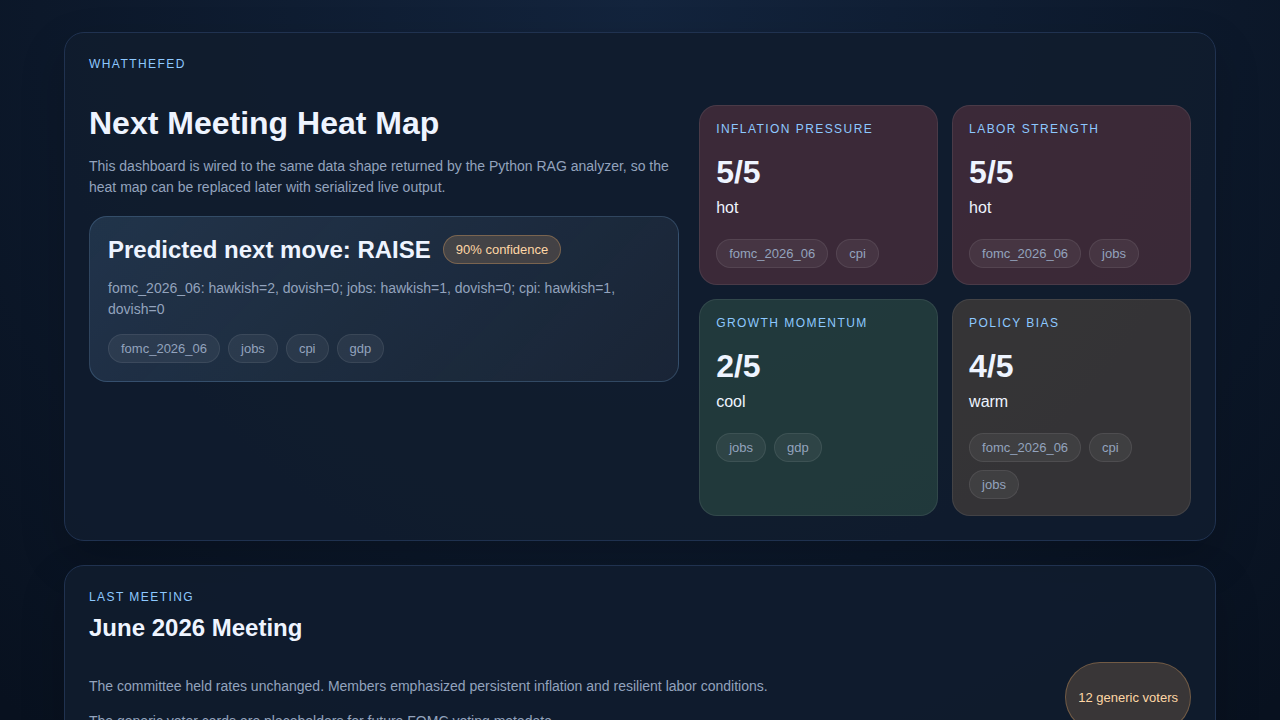
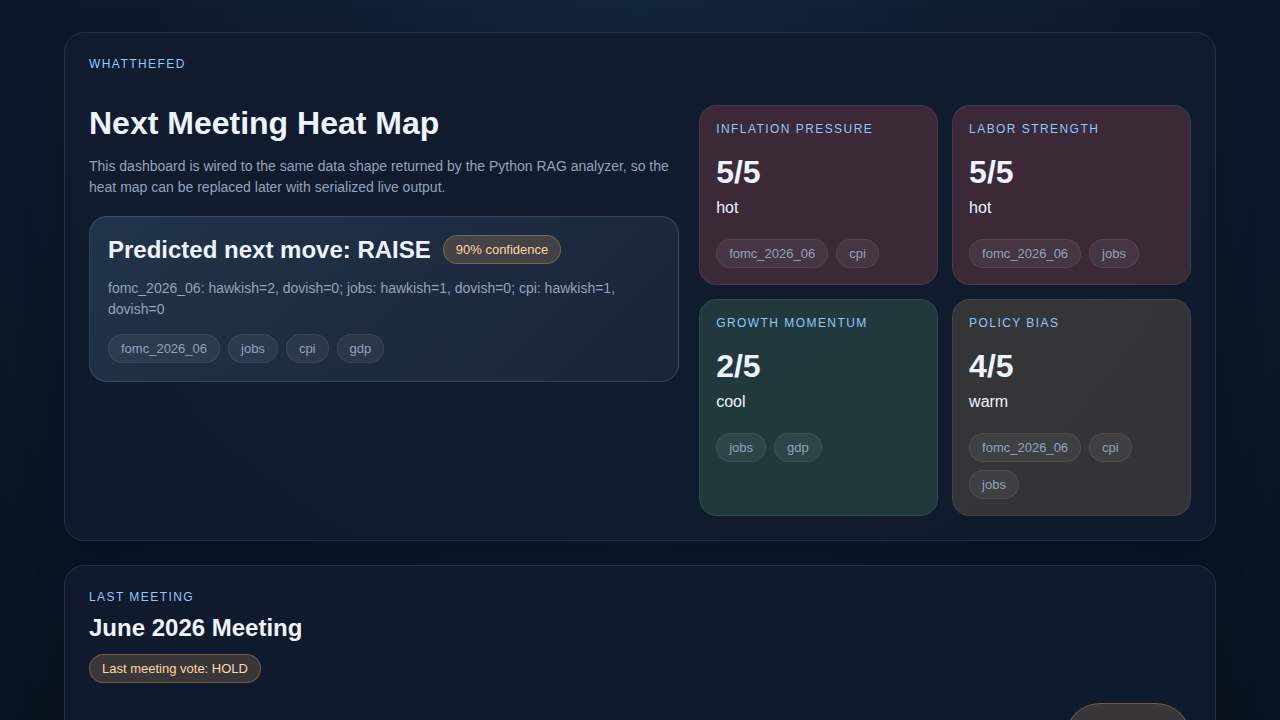
Clarify dashboard meeting data

Changed region(s): [[0.0625, 0.8861, 0.5938, 1.0], [0.8125, 0.9167, 0.9375, 1.0]]

diff --git a/index.html b/index.html
@@ -148,6 +148,14 @@
       margin-top: 20px;
     }
 
+    .meeting-meta {
+      display: flex;
+      flex-wrap: wrap;
+      gap: 10px;
+      align-items: center;
+      margin-top: 12px;
+    }
+
     .votes-grid {
       display: grid;
       grid-template-columns: repeat(4, minmax(120px, 1fr));
@@ -249,10 +257,13 @@
     <section class="section">
       <div class="eyebrow">Last Meeting</div>
       <h2 id="meeting-label"></h2>
+      <div class="meeting-meta">
+        <div id="meeting-decision" class="pill"></div>
+      </div>
       <div class="meeting-grid">
         <div>
           <p id="meeting-summary" class="note"></p>
-          <p class="note">The generic voter cards are placeholders for future FOMC voting metadata.</p>
+          <p class="note">The generic voter cards reflect the last meeting vote pattern, so they may differ from the next meeting prediction above.</p>
         </div>
         <div class="pill">12 generic voters</div>
       </div>
@@ -263,6 +274,7 @@
   <script>
     const dashboardData = {
       last_meeting_label: "June 2026 Meeting",
+      last_meeting_decision: "hold",
       last_meeting_summary:
         "The committee held rates unchanged. Members emphasized persistent inflation and resilient labor conditions.",
       next_meeting_prediction: {
@@ -296,6 +308,8 @@
     };
 
     document.getElementById("meeting-label").textContent = dashboardData.last_meeting_label;
+    document.getElementById("meeting-decision").textContent =
+      `Last meeting vote: ${dashboardData.last_meeting_decision.toUpperCase()}`;
     document.getElementById("meeting-summary").textContent = dashboardData.last_meeting_summary;
     document.getElementById("summary").textContent =
       "This dashboard is wired to the same data shape returned by the Python RAG analyzer, so the heat map can be replaced later with serialized live output.";

diff --git a/whatthefed/rag.py b/whatthefed/rag.py
@@ -54,6 +54,11 @@ class FedRAGAnalyzer:
     SCORE_MULTIPLIER = 0.1
     MAX_CONFIDENCE = 0.9
     GENERIC_VOTER_COUNT = 12
+    LAST_MEETING_VOTE_DISTRIBUTIONS = {
+        "raise": ["raise"] * 8 + ["hold"] * 3 + ["cut"],
+        "hold": ["hold"] * 8 + ["raise"] * 2 + ["cut"] * 2,
+        "cut": ["cut"] * 8 + ["hold"] * 3 + ["raise"],
+    }
 
     def __init__(self, top_k: int = 5) -> None:
         self.top_k = top_k
@@ -133,6 +138,7 @@ class FedRAGAnalyzer:
 
         return {
             "last_meeting_label": self._meeting_label(latest_meeting),
+            "last_meeting_decision": last_meeting_decision,
             "last_meeting_summary": summary,
             "next_meeting_prediction": prediction,
             "evidence_sources": [doc.source for doc in evidence],
@@ -194,12 +200,10 @@ class FedRAGAnalyzer:
         return cards
 
     def _build_member_votes(self, last_meeting_decision: str) -> list[dict[str, str]]:
-        distributions = {
-            "raise": ["raise"] * 8 + ["hold"] * 3 + ["cut"],
-            "hold": ["hold"] * 8 + ["raise"] * 2 + ["cut"] * 2,
-            "cut": ["cut"] * 8 + ["hold"] * 3 + ["raise"],
-        }
-        votes = distributions.get(last_meeting_decision, distributions["hold"])
+        votes = self.LAST_MEETING_VOTE_DISTRIBUTIONS.get(
+            last_meeting_decision,
+            self.LAST_MEETING_VOTE_DISTRIBUTIONS["hold"],
+        )
         return [
             {
                 "member": f"Member {index + 1:02d}",

diff --git a/tests/test_rag.py b/tests/test_rag.py
@@ -52,6 +52,7 @@ class FedRAGAnalyzerTests(unittest.TestCase):
     def test_analyze_returns_dashboard_ready_data(self) -> None:
         report = self.analyzer.analyze(self.meeting_notes, self.trusted_signals)
         self.assertEqual(report["last_meeting_label"], "June 2026 Meeting")
+        self.assertEqual(report["last_meeting_decision"], "hold")
         self.assertEqual(len(report["dashboard"]["last_meeting_votes"]), 12)
         self.assertEqual(len(report["dashboard"]["next_meeting_heat_map"]), 4)
         self.assertEqual(report["dashboard"]["last_meeting_votes"][0]["member"], "Member 01")

diff --git a/README.md b/README.md
@@ -38,7 +38,7 @@ print(report["dashboard"]["next_meeting_heat_map"])
 
 ## Dashboard
 
-Open `/home/runner/work/WhatTheFed/WhatTheFed/index.html` in a browser to view a static dashboard prototype with:
+Open `./index.html` in a browser to view a static dashboard prototype with:
 
 - a next-meeting heat map
 - a latest-meeting summary card
